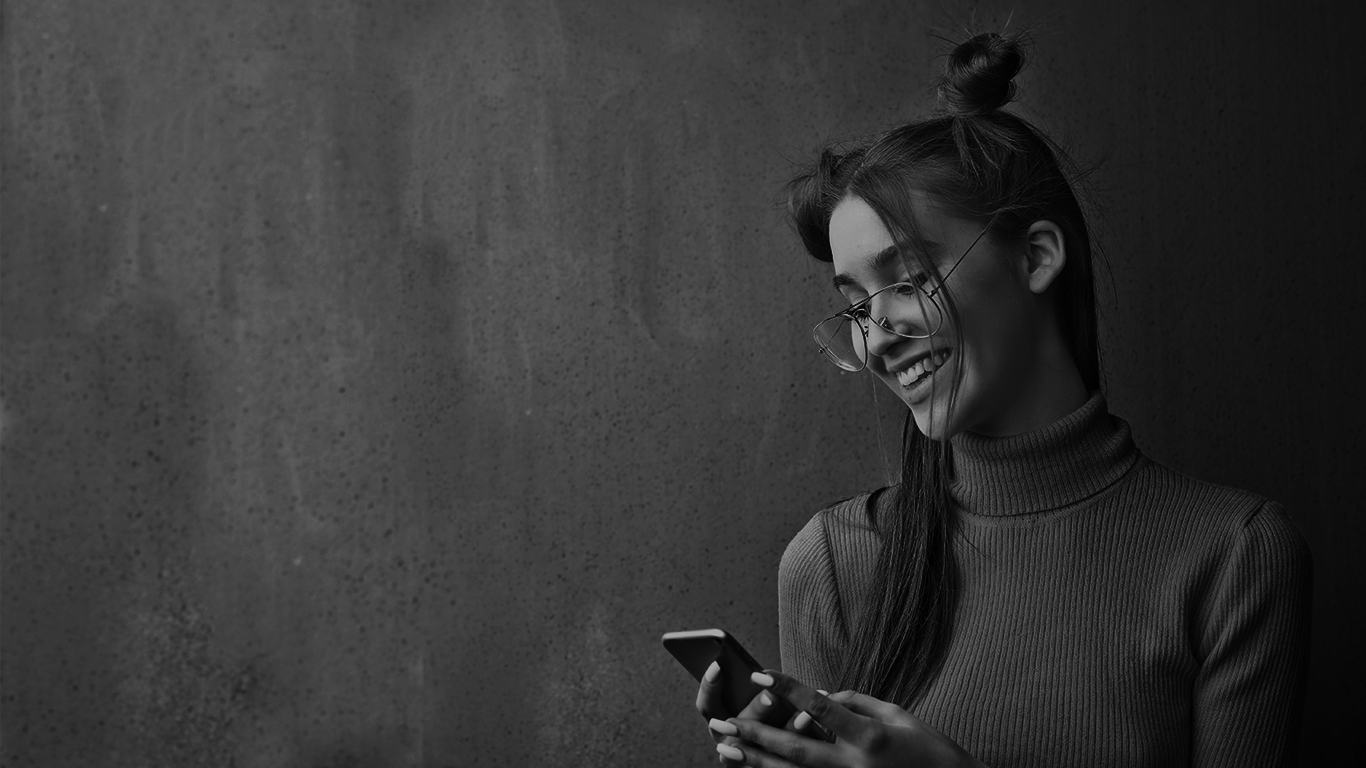
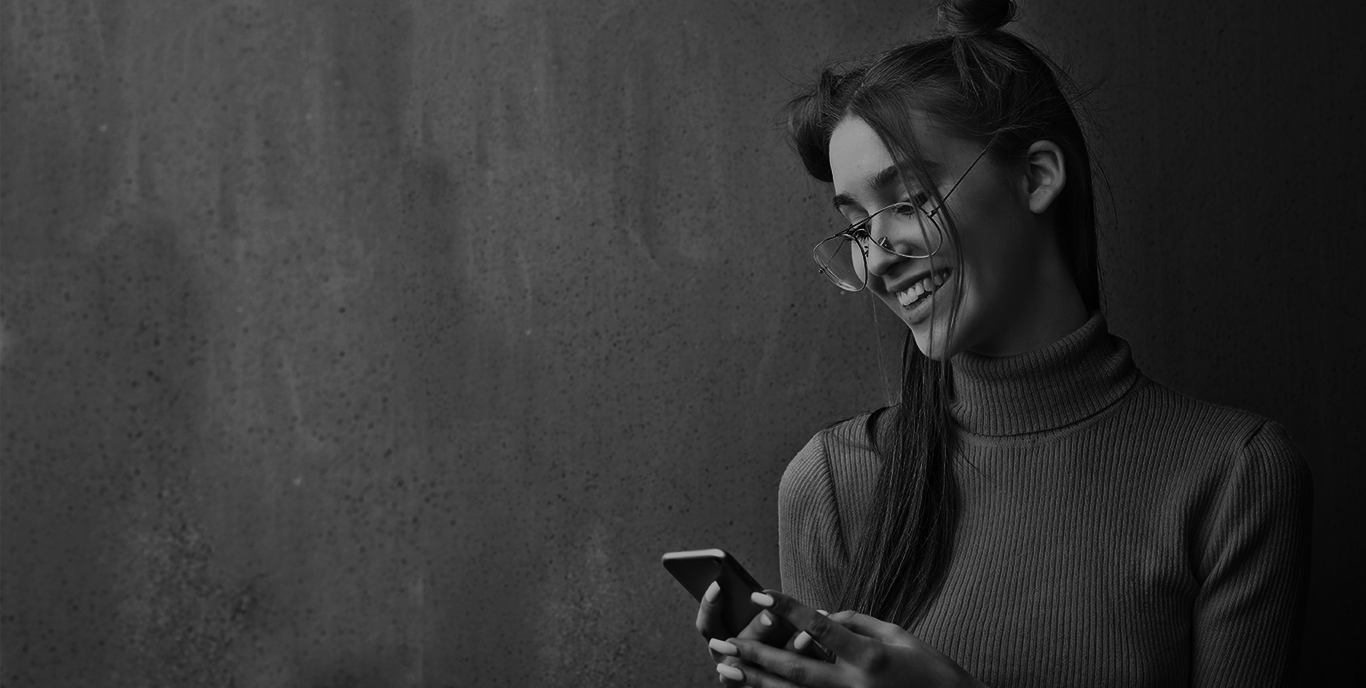
UPANDO ALTERAÇÔES LOGIN

Changed region(s): [[0.4612, 0.0, 0.9531, 0.9767], [0.7687, 0.4578, 0.7994, 0.4884]]

diff --git a/css/entrar.css b/css/entrar.css
@@ -4,10 +4,30 @@ a{
   align-items: center;
   display: flex;
   color: #fff
+  
 }
-#texto{
-  color: #fff
+
+
+#texto_email{
+  color: #fff;
+  font-size: 1.25rem;
+  border-radius: 0.25rem;
+  display: flex;
+  flex-direction: column;
+  align-items: baseline;
 }
+#texto_senha{
+  color: #fff;
+  font-size: 1.25rem;
+  border-radius: 0.25rem;
+  display: flex;
+  flex-direction: column;
+  align-items: baseline;
+}
+#texto_dados{
+  color: #fff;
+}
+
 #img{
   width: 200px;
   height: 200px;
@@ -27,16 +47,20 @@ body {
   -ms-flex-align: center;
   align-items: center;
 
-  padding-bottom: 40px;
+ /* padding-bottom: 40px;*/
  background: url(../img/wallpaper.png);
+ background-size: cover;
+ background-repeat: no-repeat;
 }
 
+.text-muted{
+  color: #ffff !important;
+}
 /*-----------------------*/
 
 .form-signin {
   width: 100%;
   max-width: 330px;
-  padding: 15px;
   margin: auto;
 }
 .form-signin .checkbox {
@@ -54,13 +78,31 @@ body {
 }
 .form-signin input[type="email"] {
   margin-bottom: -1px;
-  border-bottom-right-radius: 0;
-  border-bottom-left-radius: 0;
+
 }
 .form-signin input[type="password"] {
   margin-bottom: 10px;
-  border-top-left-radius: 0;
-  border-top-right-radius: 0;
+
+}
+.final {
+  display: flex;
+
+}
+
+
+
+
+#texto_link{
+  color: #fff;
+  padding: 9px;
+  text-decoration: none;
+}
+
+
+.final a{
+  text-decoration: none;
+
+color: #696969;
 }
 #texto{
   display: flex;

diff --git a/entrar.php b/entrar.php
@@ -17,24 +17,30 @@
       <form class="form-signin">
         
           <a href="#"><img id="img" src="img/logo2.png" alt="dijunto"></a>
+          
           <div class="form-group">
             
-            <label id="texto" for="exampleInputEmail1">Informe seu E-mail</label>
+            <label id="texto_email" for="exampleInputEmail1">Informe seu E-mail</label>
             <input type="email" class="form-control" id="exampleInputEmail1" aria-describedby="emailHelp">
             <small id="texto" class="form-text text-muted">Infome o seu e-mail que foi utilizado no cadastro.</small>
           </div>
           <div class="form-group">
-            <label id="texto" for="exampleInputPassword1">Senha</label>
+            <label id="texto_senha" for="exampleInputPassword1">Senha</label>
             <input type="password" class="form-control" id="exampleInputPassword1">
+            <section class="final">
+            <a id="texto_link" class="link"  href="url">Esqueceu a Senha?</a>
+            <a id="texto_link" class="link"  href="url">Não esta cadastrado?</a>
+            </section>
           </div>
           <div class="form-group custom-control custom-checkbox">
             <input type="checkbox" class="custom-control-input" id="customSwitch1">
-            <label id="texto" class="custom-control-label mb-1" for="customSwitch1">Salvar dados de login?</label>
+            <label id="texto_dados" class="custom-control-label mb-1" for="customSwitch1">Salvar dados de login?</label>
             
           </div>
-          <button type="submit" class="btn btn-secondary btn-lg btn-block">Login</button>
-          <a  class="nav-link"  href="url">Esqueceu a Senha?</a>
+          <button type="submit" class="btn btn-warning btn-lg btn-block">Login</button>
+          <a id="texto_link" class="link" href="index.php"> Voltar ao inicio</a>
         </form>
+        
 
 
 
